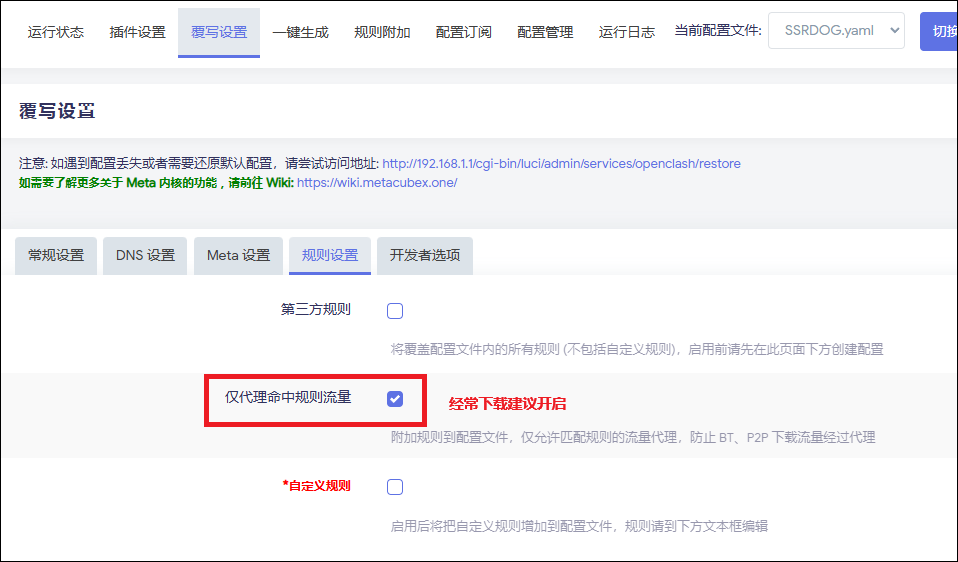
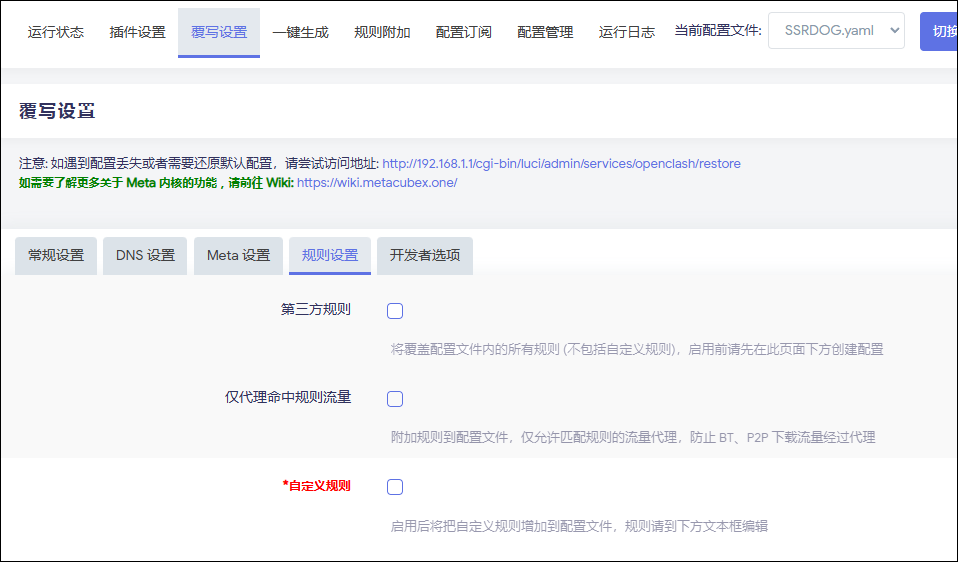
Sync with upstream repository

Changed region(s): [[0.2119, 0.6655, 0.6054, 0.7865]]

diff --git a/wiki/1.OpenClash-设置方案.md b/wiki/1.OpenClash-设置方案.md
@@ -507,24 +507,17 @@ SmartDNS 自身的设置中，务必关闭 DNS 劫持，且只需要保留第一
 
 ### 3.3. 规则设置  
 
-按照图中所示进行设置，该功能有一定的副作用，具体见 [vernesong/OpenClash#3942](https://github.com/vernesong/OpenClash/issues/3942)  
-
-个人建议：有 BT、PT、P2P 下载的较强需求的开启，没有的则关闭  
-
-2025年3月28日：当前 master 版本 0.46.079 下开启“仅代理命中流量”会导致 GeoIP 的规则无法生效，导致 Telegram 无法代理。请关闭该功能，或者升级 dev 版本 0.46.080 以上版本 
-
-如果开启后仍然有相关流量走了代理，可以尝试将`漏网之鱼`策略组指定为直连，但是漏网之鱼策略组指定为直连会导致 DNS 泄露问题（仅仅是不能通过测试网站的测试，并非真正泄露），建议自行取舍。  
-
-开启后，日志中可能出现少量 MATCH 报错，无需担心，不影响日常使用。  
-  
-![](../doc/openclash/pics/bt.png)  
-
+按照图中所示进行设置。
 
 下方的“自定义规则”启用后会出现文本框，可以添加你想附加的规则，规则相当丰富，具体格式见文本框内的注释，此处不做赘述。  
 
 如果你的下载设备是 NAS 之类的独立设备，建议在此处通过自定义规则让下载设备的流量全部直连。  
 
-具体参考：[如何添加自定义规则](https://github.com/Aethersailor/Custom_OpenClash_Rules/wiki/%E5%85%B6%E4%BB%96%E8%AF%B4%E6%98%8E#%E5%A6%82%E4%BD%95%E6%B7%BB%E5%8A%A0%E8%87%AA%E5%AE%9A%E4%B9%89%E8%A7%84%E5%88%99)  
+具体参考：[BT 和 PT 等下载流量分流问题](5.故障排除.md#bt-%E5%92%8C-pt-%E7%AD%89%E4%B8%8B%E8%BD%BD%E6%B5%81%E9%87%8F%E5%88%86%E6%B5%81%E9%97%AE%E9%A2%98)
+
+你也可以通过该功能，自己补充自定义规则，指定某些域名直连或代理，以及指定局域网内某些直连或代理等等。  
+
+[如何添加自定义规则](https://github.com/Aethersailor/Custom_OpenClash_Rules/wiki/%E5%85%B6%E4%BB%96%E8%AF%B4%E6%98%8E#%E5%A6%82%E4%BD%95%E6%B7%BB%E5%8A%A0%E8%87%AA%E5%AE%9A%E4%B9%89%E8%A7%84%E5%88%99)  
 
 
 ### 3.4. 开发者选项  

diff --git a/wiki/5.故障排除.md b/wiki/5.故障排除.md
@@ -146,13 +146,13 @@ geosite:cn 对国内冷门域名的收录，难免有遗漏，一些冷门国内
 
 可以进行如下尝试：禁用“追加上游 DNS”，在 Nameserver 下启用一个或多个国内 DOH DNS 服务器地址。  
 
-## BT 和 PT 等下载流量分流分体
-
-需要修改 覆写设置 > 规则设置 > 自定义规则 > 上方文本框内容  
+## BT 和 PT 等下载流量分流问题
 
 针对下载流量分流的建议：  
 
 1. **独立下载设备**：为设备 IP 设置直连规则。  
+
+建议修改 覆写设置 > 规则设置 > 自定义规则 > 上方文本框内容 
 
 如果下载设备是 NAS 这样的独立设备，自行替换规则中的 IP 地址为下载设备的局域网地址。  
 
@@ -168,20 +168,9 @@ geosite:cn 对国内冷门域名的收录，难免有遗漏，一些冷门国内
 
 
 
-2. **非独立设备**：设置仅代理 80 和 443 端口。
+2. **非独立设备**：设置 80/443 以外端口直连。
 
-
-在上方文本框中，补充如下
-
-```
-- DST-PORT,80,🐟 漏网之鱼
-- DST-PORT,443,🐟 漏网之鱼
-- MATCH,DIRECT
-```
-
-设置后，OpenClash 将仅代理来自 80 和 443 端口的流量，有效规避 PT 和 BT 下载数据
-
-<img width="485" height="228" alt="rule2" src="https://github.com/user-attachments/assets/be7ce9ae-3529-467a-8f99-45eca25898c1" />  
+策略组中设置“非标端口”策略组直连，可规避 80/443 端口以外的所有下载流量。如需避免 80/443 端口下载流量，请设置“漏网之鱼”直连
 
 
 
